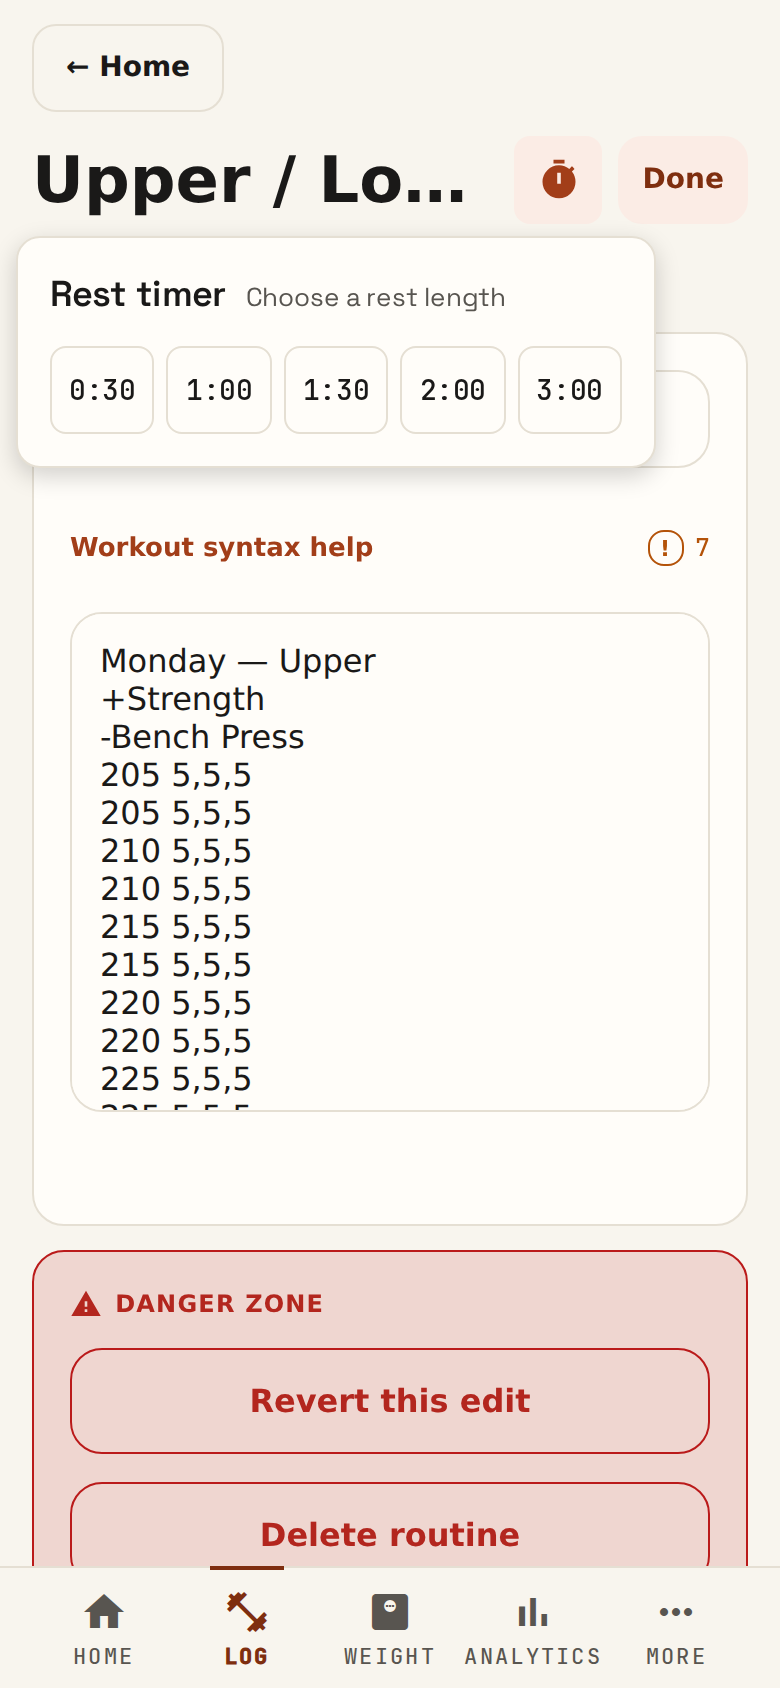
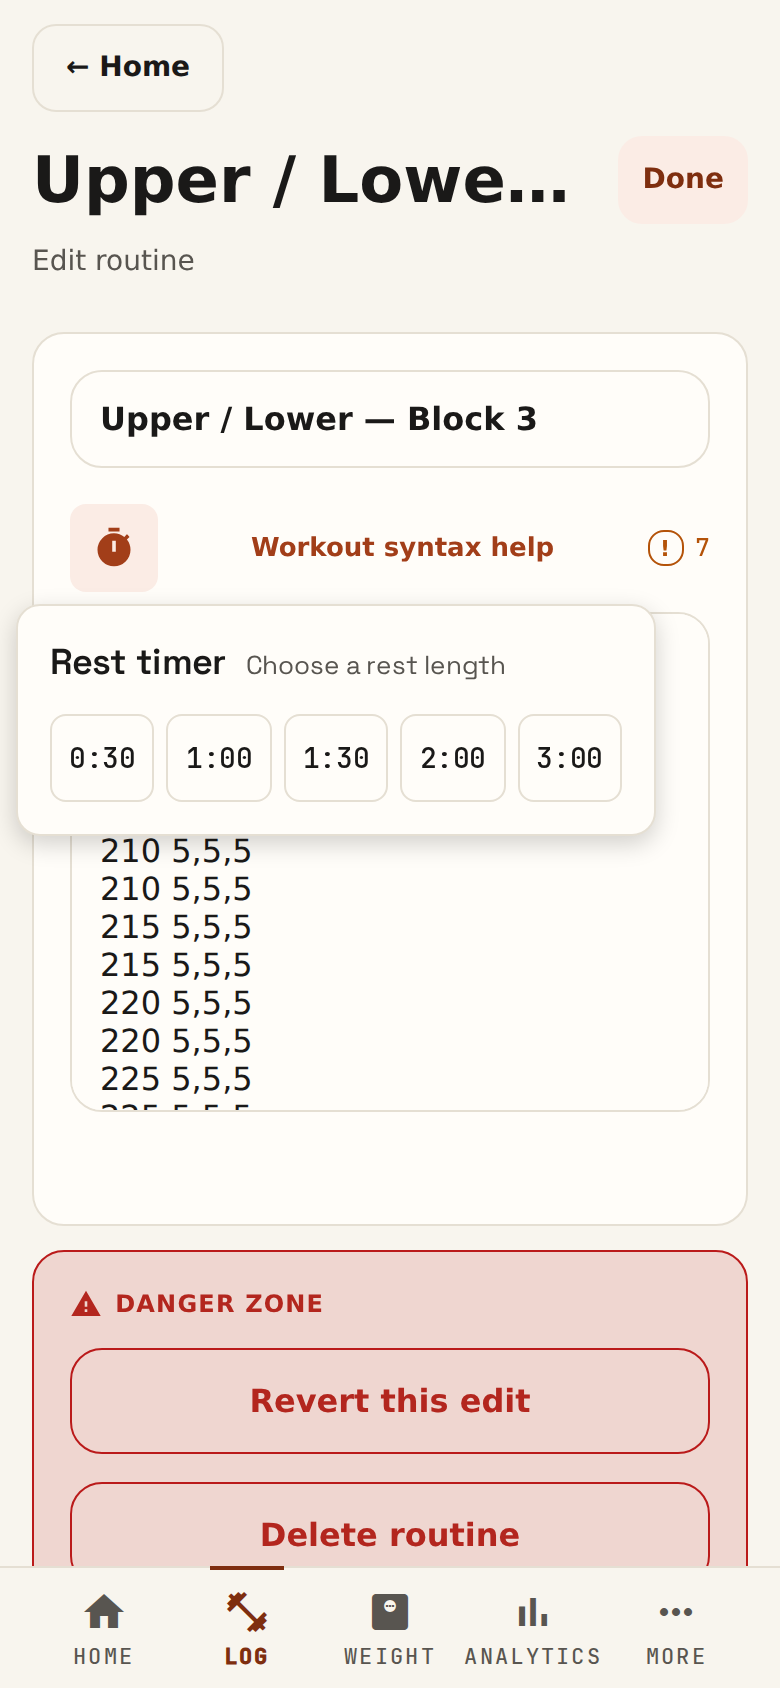
R8 evidence: rerender timer states with tool-row docking (#1607)

diff --git a/docs/evidence/app-redesign-v3/r8/README.md b/docs/evidence/app-redesign-v3/r8/README.md
@@ -1,6 +1,6 @@
 # R8 (#1607) visual evidence — Log history sheet and rest-timer surfaces
 
-- **Rendered commits:** `history-*` and `log-first-*` at `eaa4bf492bd954963af27563e6b4c02e3c84eb21` (chart point selection); timer/pill states at `795f739a6d5e20da854a19965ace2a84bd60535f` — the later commits touch only `ExerciseHistorySheet.js` (selection, scrim token that was never rendered), which is not mounted on any timer screen. Real app Expo web export, not prototype HTML.
+- **Rendered commits:** timer/pill states (`editor-*`, `pill-*`, `home-timer-pill-*`) at `42b23561d7d7cd7a1646a6836a82bd8d690b3480` (control docked in the editor tool row); `history-*` and `log-first-*` at `eaa4bf492bd954963af27563e6b4c02e3c84eb21` — the later commit changes only the timer's mount point (LogScreen/LogScreenEditorCard edit mode), which is not on the read view or the sheet. Real app Expo web export, not prototype HTML.
 - **Viewport:** 390×844 @2x via the shared harness (`../capture.cjs`, read-only); issue-local overlays in `fixtures.cjs`.
 - **Themes:** every state in hard-dark and clay-light; Log first screen and Home pill (first affected screens) also in grass-light and clay-dark.
 - **References:** `docs/design/app-redesign-v3/shots/hybrid/` state-log-history-sheet, state-log-editor, state-log-editor-timer, state-home-timer-running (hard-dark).
@@ -15,7 +15,7 @@
 6. Pill: centred, primary 1.5px outline, timer icon, 18px tabular countdown, uppercase action; sits above the tab bar.
 7. Unchanged: day index, fold, Track, editor actions, danger zone, tab bar.
 
-**Deviation (documented):** the docked control stays in the editor header's top-right action slot (production's existing editor toolbar) rather than a new in-card toolbar row; moving it would need product files outside Allowed Files (editor card is at the 600-line cap). Placement, docking/handoff and modal behaviour are unchanged.
+**Placement:** the control is first in the editor card's tool row (before Workout syntax help and the problem count), matching the reference toolbar; the page header keeps only Done, so the routine title is no longer truncated by the timer. The preset panel anchors under the docked control.
 
 ## Reproduction
 
@@ -24,7 +24,7 @@ cd mobile && EXPO_PUBLIC_SUPABASE_URL=https://mockproj.supabase.co EXPO_PUBLIC_S
 cd .. && KILO_RENDERED_COMMIT=795f739a6d5e20da854a19965ace2a84bd60535f   node docs/evidence/app-redesign-v3/r8/capture.cjs /tmp/kilo-1607-dist-795f /tmp/kilo-review-tools/node_modules
 ```
 
-The runs (full matrix at 795f739; `history,log-first` rerun at eaa4bf4 with the same command, `only` = `history,log-first`) captured all 48 states without a step failure (manifest written to the work dir). Later commits on this branch change only docs/evidence/changelog, so the renders still apply.
+The runs (full matrix first; `history,log-first` rerun at eaa4bf4 and `editor,home,pill` rerun at 42b2356, each with the same command plus that `only` filter) captured all 50 states without a step failure (manifest written to the work dir). Later commits on this branch change only docs/evidence/changelog, so the renders still apply.
 
 ## Degradation and preserved capabilities
 
@@ -32,13 +32,15 @@ The runs (full matrix at 795f739; `history,log-first` rerun at eaa4bf4 with the 
 - Unparsed and skipped rows stay verbatim in the list and are never charted (`history-unparsed`, `history-repeated-accessories`).
 - Selection: latest point selected by default (`history-sheet`); tapping session 1 moves the callout and marker (`history-point-earlier`).
 - Repeated names: Monday, Thursday-Strength and Thursday-Accessories Bench Press each open only their own sessions with distinct context (`history-sheet`, `history-repeated-*`); A/B routine names the week (`history-ab-week`).
-- Timer: idle/presets/running/cancelled/done in the editor; scrolled-off editor hands the countdown to the pill (`editor-scrolled-pill`); running pill on Home, Log read view, Weight, Analytics, More; completion pill with Dismiss; inset-device panel (`editor-safe-area`). The web build has no software keyboard; keyboard placement is unchanged code (pill clearance logic untouched).
+- Timer: idle/presets/running/cancelled/done in the editor; docked control with no pill at rest (`editor-docked-visible`); in a 390×560 window (bounded extra viewport — the fixture editor cannot scroll the tool row off a 844 window) scrolling past the tool row hands the countdown to the pill (`editor-scrolled-pill`); running pill on Home, Log read view, Weight, Analytics, More; completion pill with Dismiss; inset-device panel (`editor-safe-area`). The web build has no software keyboard; keyboard placement is unchanged code (pill clearance logic untouched).
 - Background alert unavailable flag remains on the control, panel and pill.
 
 ## States
 
 | After | Reference | Result |
 |---|---|---|
+| [editor-docked-visible-clay-light](after/editor-docked-visible-clay-light.png) | [state-log-editor-timer-hard-dark.png](../../../design/app-redesign-v3/shots/hybrid/state-log-editor-timer-hard-dark.png) | Pass |
+| [editor-docked-visible-hard-dark](after/editor-docked-visible-hard-dark.png) | [state-log-editor-timer-hard-dark.png](../../../design/app-redesign-v3/shots/hybrid/state-log-editor-timer-hard-dark.png) | Pass |
 | [editor-presets-idle-clay-light](after/editor-presets-idle-clay-light.png) | [state-log-editor-timer-hard-dark.png](../../../design/app-redesign-v3/shots/hybrid/state-log-editor-timer-hard-dark.png) | Pass |
 | [editor-presets-idle-hard-dark](after/editor-presets-idle-hard-dark.png) | [state-log-editor-timer-hard-dark.png](../../../design/app-redesign-v3/shots/hybrid/state-log-editor-timer-hard-dark.png) | Pass |
 | [editor-presets-running-clay-light](after/editor-presets-running-clay-light.png) | [state-log-editor-timer-hard-dark.png](../../../design/app-redesign-v3/shots/hybrid/state-log-editor-timer-hard-dark.png) | Pass |
